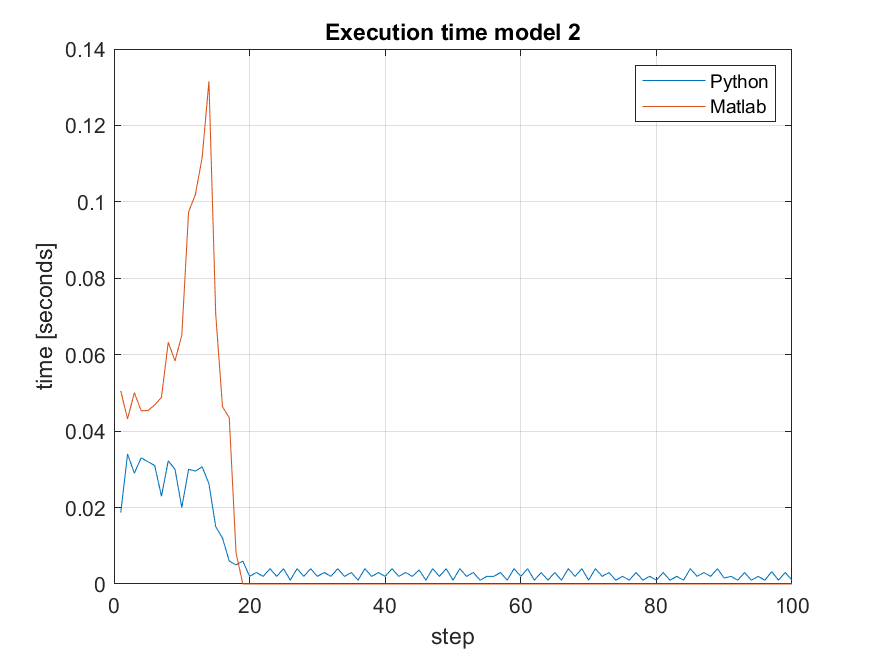
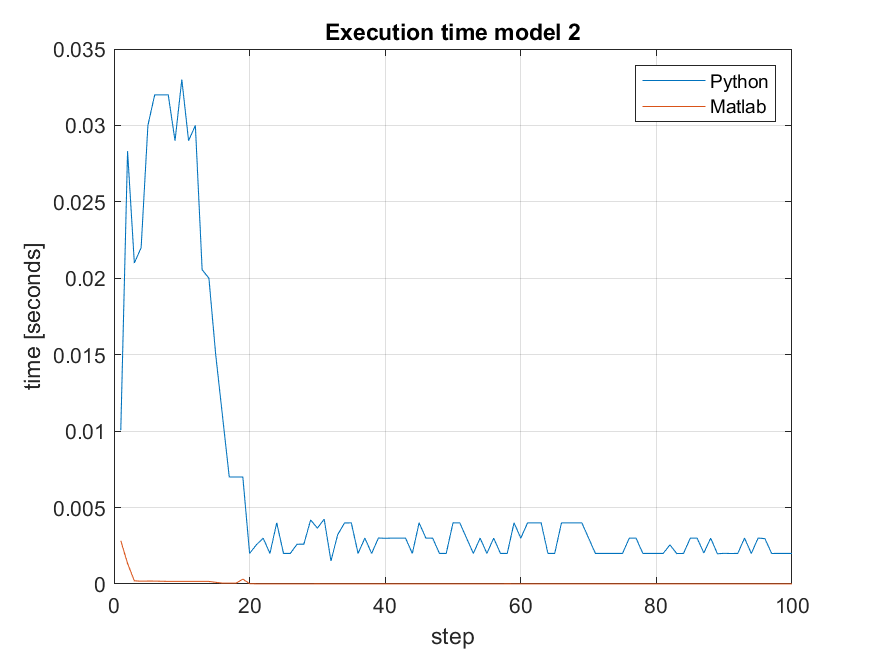
bug with qmat0i fixed

diff --git a/Matlab_kode/MPClambda2sbrybtNEWEST_run.m b/Matlab_kode/MPClambda2sbrybtNEWEST_run.m
@@ -1,0 +1,208 @@
+tend = 100;
+%  Using the matric inversion lemma for updating inv(Q)
+%  Trying sparse implementation.
+% Version b: Always delete inactve constraint before adding new active
+% constraint.  Select largest violation of complementarity for
+% removal/addition of constraints
+% Version br: Removed unreliable LP formulation to check for infeasibility.
+%  Rely solely on the size of qdiv instead.
+% Version y: Update y as in (17) of draft paper
+% Version bryb: minor tweaks
+% Version brybt: Warmstarting from solution at previous timestep.
+% Calculating times for optimization and for cleaning Q matrix separately
+if (Model == 1)
+    xinit = [5;-2];
+    tosave1 = zeros(1,tend);
+elseif (Model == 2)
+    xinit = 1.0*[25.5724;25.3546;9.7892;0.2448]; %(1.0: Feasible. 1.04 Feasible. 1.1: Infeasible, (but cycles indefinitely _No, not with updated limits on qdiv).  qdiv not very small. 
+                                                 %1.5: Infeasibility caught through qdiv \approx 0. 
+elseif (Model ==3)
+  %  xinit = 0.1*randn(nx,1);
+  load xinit3
+  xinit = 4.98*xinit;   %Feasible.  One measurement violates constraints at t=0, but measurement constraints are only included from t=1.
+  %xinit = 5.0*xinit; %Infeasible
+  tosave2 = zeros(1,tend);
+end
+
+x0 = xinit;
+
+xsave = zeros(nx,tend+1);
+usave = zeros(nu,tend);
+zsave = zeros(nu,tend);
+%tosave = zeros(1,tend);
+%tcsave = zeros(1,tend);
+feasflag = 1;  %feasflag = 0 indicates infeasible problem.
+
+xsave(:,1)=xinit;
+
+nc = size(Gz,1);
+Hinv = inv(Hess);
+%IGi = inv(eye(nc)-Gz*Hinv*Gz');
+IGi = (eye(nc)-Gz*Hinv*Gz');
+IGis = sparse(IGi);
+hif = Hinv*f0;
+
+ %  uvec = -Hinv*Gz'*lam - hif*x0;
+  HGz = -Hinv*Gz';
+  HGzu = HGz(1:nu,:);
+  hifu = -hif(1:nu,:);
+
+actset = sparse(logical(zeros(nc,1)));
+actset0 = actset;
+Qmat0i = speye(nc);
+
+tt = tic;
+%for ik = 1:1
+while_iterations = zeros(1, 100);
+
+for ik = 1:tend
+    %ik;
+    %Implicit MPC problem.  Hoping to do this efficiently...
+    
+    %Starting with all constraints inactive
+    to = tic;
+    
+    feasflag = false;
+    solved = false;
+    ix = 0;
+    
+    Qmat0i = speye(nc);
+    actset = actset0;
+   
+    y0 = -Sz*x0-Wz;
+    
+
+    while (~solved)
+        ix = ix +1;
+        
+        if (ix == 1)
+            y = y0;
+        else
+            y = y0-y0(iz)*vAd;
+            y0 = y;
+        end
+        
+        lam = y.*actset;
+        [i1,i1z] = min(lam);        
+        if(i1 >= 0)
+            i1 = [];
+        end
+        
+        if(~isempty(i1))
+            iz = i1z;
+            actset(iz) = 0;
+            qc = 1; % Remove constraint from active set
+        else
+            [i2,i2z] = max(y-lam);
+            if (i2 <= 0)
+                i2 = [];
+            end
+            if(~isempty(i2))
+                iz = i2z;
+                actset(iz) = 1;
+                qc = -1; % Add constraint to active set
+            else
+                iz = [];
+            end
+        end       
+        
+        if(~isempty(iz))
+                qu = IGis(:,iz);
+                vA = Qmat0i*qu;
+                qdiv = qc+vA(iz); %qc = 1/qc
+ 
+                if ((abs(qdiv) < 1e-13) | (abs(qdiv) > 1e12))
+                    toc
+                %Will only enter here (some times) when adding a new constraint    
+                % Heuristically seems like a reliable test for infeasibility
+
+                       feasflag = 0;
+                       disp('Infeasible problem detected')
+
+                       qdiv
+                       feasflag = false;
+                       break
+                end
+
+                vAd = (1/qdiv)*vA;
+                Qmat1i = Qmat0i-vAd*Qmat0i(iz,:);
+                Qmat0i = Qmat1i;                   
+        else
+            solved = true;
+            feasflag = true;
+
+        end
+        
+    end
+    while_iterations(1,ik) = ix;
+    tk = toc(to);
+    if (feasflag == 0)
+        break
+    end
+    
+ %   lam = actset.*y; %Pick out the positive elements in y
+    
+  %   uvec = -Hinv*Gz'*lam - hif*x0;  
+  %  u = uvec(1:nu);
+    
+    u = HGzu*lam+hifu*x0;
+        
+    % End solve implicit MPC problem
+
+    x1 = A*x0+B*u;
+
+    x0 = x1;
+    xsave(:,ik+1)=x0;
+    usave(:,ik) = u;
+    if (Model ==1)
+        tosave1(1,ik) = tk;
+    end
+    if (Model ==2)
+        tosave2(1,ik) = tk;
+    end
+    
+  % tc = tic;
+  % Qmat0i=clean(Qmat0i,1e-12);
+   % tc = toc(tc);
+   % tcsave(1,ik) = tc;
+end
+
+toc(tt)
+
+
+if (Model == 1)
+    figure(1)
+    tx = linspace(0,tend,tend+1);
+    plot(tx,xsave(1,:),'b',tx,xsave(2,:),'r')
+    ylabel('x1')
+    xlabel('timestep')
+    title('State trajectories')
+
+    figure(2)
+    tu = linspace(0,tend-1,tend);
+    plot(tu,usave)
+    
+elseif (Model == 2)
+    ym = C*xsave;                        
+    figure(1)
+    tx = linspace(0,tend,tend+1);
+    plot(tx,ym(1,:),'b',tx,ym(2,:),'r')
+    title('Output trajectories')
+
+
+    figure(2)
+    tu = linspace(0,tend-1,tend);
+    plot(tu,usave(1,:),'b',tu,usave(2,:),'r')
+elseif (Model == 3)
+    ym = C*xsave;                        
+    figure(1)
+    tx = linspace(0,tend,tend+1);
+    plot(tx,ym(1,:),'b',tx,ym(2,:),'r',tx,ym(3,:),'k',tx,ym(4,:),'g')
+    title('Output trajectories')
+
+    figure(2)
+    tu = linspace(0,tend-1,tend);
+    plot(tu,usave(1,:),'b',tu,usave(2,:),'r',tu,usave(3,:),'k',tu,usave(4,:),'g')
+end
+
+    

diff --git a/PythonCode/MPC_run.py b/PythonCode/MPC_run.py
@@ -11,9 +11,10 @@ tend = 100
 
 if (MODEL == 1):
     xinit = np.matrix([[5], [-2]])
-    xinit = np.matrix([[-6], [1.1]])
+    tosave1 = np.zeros((1, tend))
 if (MODEL == 2):
     xinit = np.matrix([[25.5724],[25.3546],[9.7892],[0.2448]])
+    tosave2 = np.zeros((1, tend))
 
 x0 = xinit
 
@@ -21,15 +22,9 @@ xsave = np.zeros((nx, tend+1))
 usave = np.zeros((nu, tend))
 zsave = np.zeros((nu, tend))
 
-if (MODEL == 1):
-    tosave1 = np.zeros((1, tend))
-if (MODEL ==2):
-    tosave2 = np.zeros((1, tend))
 feasflag = 1
 
 xsave[:,0:1]= xinit
-
-f = np.zeros((n*nu, 1))
 
 nc = np.shape(Gz)[0]
 Hinv = np.linalg.inv(Hess) #stemmer
@@ -41,28 +36,27 @@ HGz = -Hinv@np.transpose(Gz) #stemmer
 HGzu = HGz[0:nu, :]
 hifu = -hif[0:nu, :]
 
-actsets = np.zeros((nc,1))
-Qsp0 = np.identity(nc)
+actset0 = np.zeros((nc,1))
+Qmat0i = np.identity(nc) #denne er overflødig siden vi setter dne i for loopen
 
-while_iterations = []
-
+while_iterations = [] #for counting the while iterations in each step
 
 for i in range(tend):
     start = time.time_ns()    
+    
     feasflag = False
 
-    actset = actsets
+    actset = actset0
     solved = False
-    izold = 0
     ix = 0
 
-    Qmat0i = Qsp0
-    qu_list = []
+    Qmat0i = np.identity(nc)
     
     y0 = np.subtract(-Sz.dot(x0), Wz)
-    num_iterations = 0
+
+    
     while (not (solved)):
-        num_iterations = num_iterations +1
+        
         ix = ix +1
         
         if (ix == 1): 
@@ -75,7 +69,7 @@ for i in range(tend):
         i1 = min(lam)
         i1z = np.argmin(lam)
 
-        if (i1>=-10*np.finfo(float).eps):
+        if (i1>=0):
             i1 = []
 
         if (i1):
@@ -85,6 +79,8 @@ for i in range(tend):
         else:
             i2 = max(y-lam)
             i2z = np.argmax(y-lam)
+            if (i2 <= 0):
+                i2= []
             if (i2): 
                 iz = i2z
                 actset[iz] = 1
@@ -94,10 +90,9 @@ for i in range(tend):
         
         if (iz):
             qu = IGIs[:, iz]
-            qu_list.append(qu)
             vA = np.transpose(np.matrix(Qmat0i@(qu)))
             qdiv = qc+vA[iz] 
-            vAd = np.multiply((1/qdiv),(vA))
+            
             if ((abs(qdiv) < 1*math.e**(-13)) or (abs(qdiv) > 1*math.e**(12))):
 
                 feasflag = 0
@@ -107,6 +102,7 @@ for i in range(tend):
 
                 break
 
+            vAd = np.multiply((1/qdiv),(vA))
             #Qmat1i = np.subtract(Qmat0i, vAd@np.matrix(Qmat0i[iz,:]))
             o=vAd@np.matrix(Qmat0i[iz,:])
             Qmat1i = np.subtract(Qmat0i, vAd@np.matrix(Qmat0i[iz,:]))
@@ -120,10 +116,12 @@ for i in range(tend):
     
     end = time.time_ns()
     tk = end-start
-
-    while_iterations.append(num_iterations)
+    while_iterations.append(ix)
     
-    lam = np.multiply((actset),(y)) #element wise?
+    if (feasflag == 0):
+        break
+    
+    #lam = np.multiply((actset),(y)) #element wise?
 
     u = HGzu@lam+hifu@x0
     x1 = A@x0+B@u
@@ -137,6 +135,7 @@ for i in range(tend):
 
     if (MODEL ==2):
         tosave2[0, i] = tk #this is in nano seconds
+        print(while_iterations)
 
 print("done")
 

diff --git a/PythonCode/MPC_setup.py b/PythonCode/MPC_setup.py
@@ -9,7 +9,7 @@ def deb(A):
     print("dimention:")
     print(A.shape)
 
-MODEL = 2
+MODEL = 1
 
 
 
